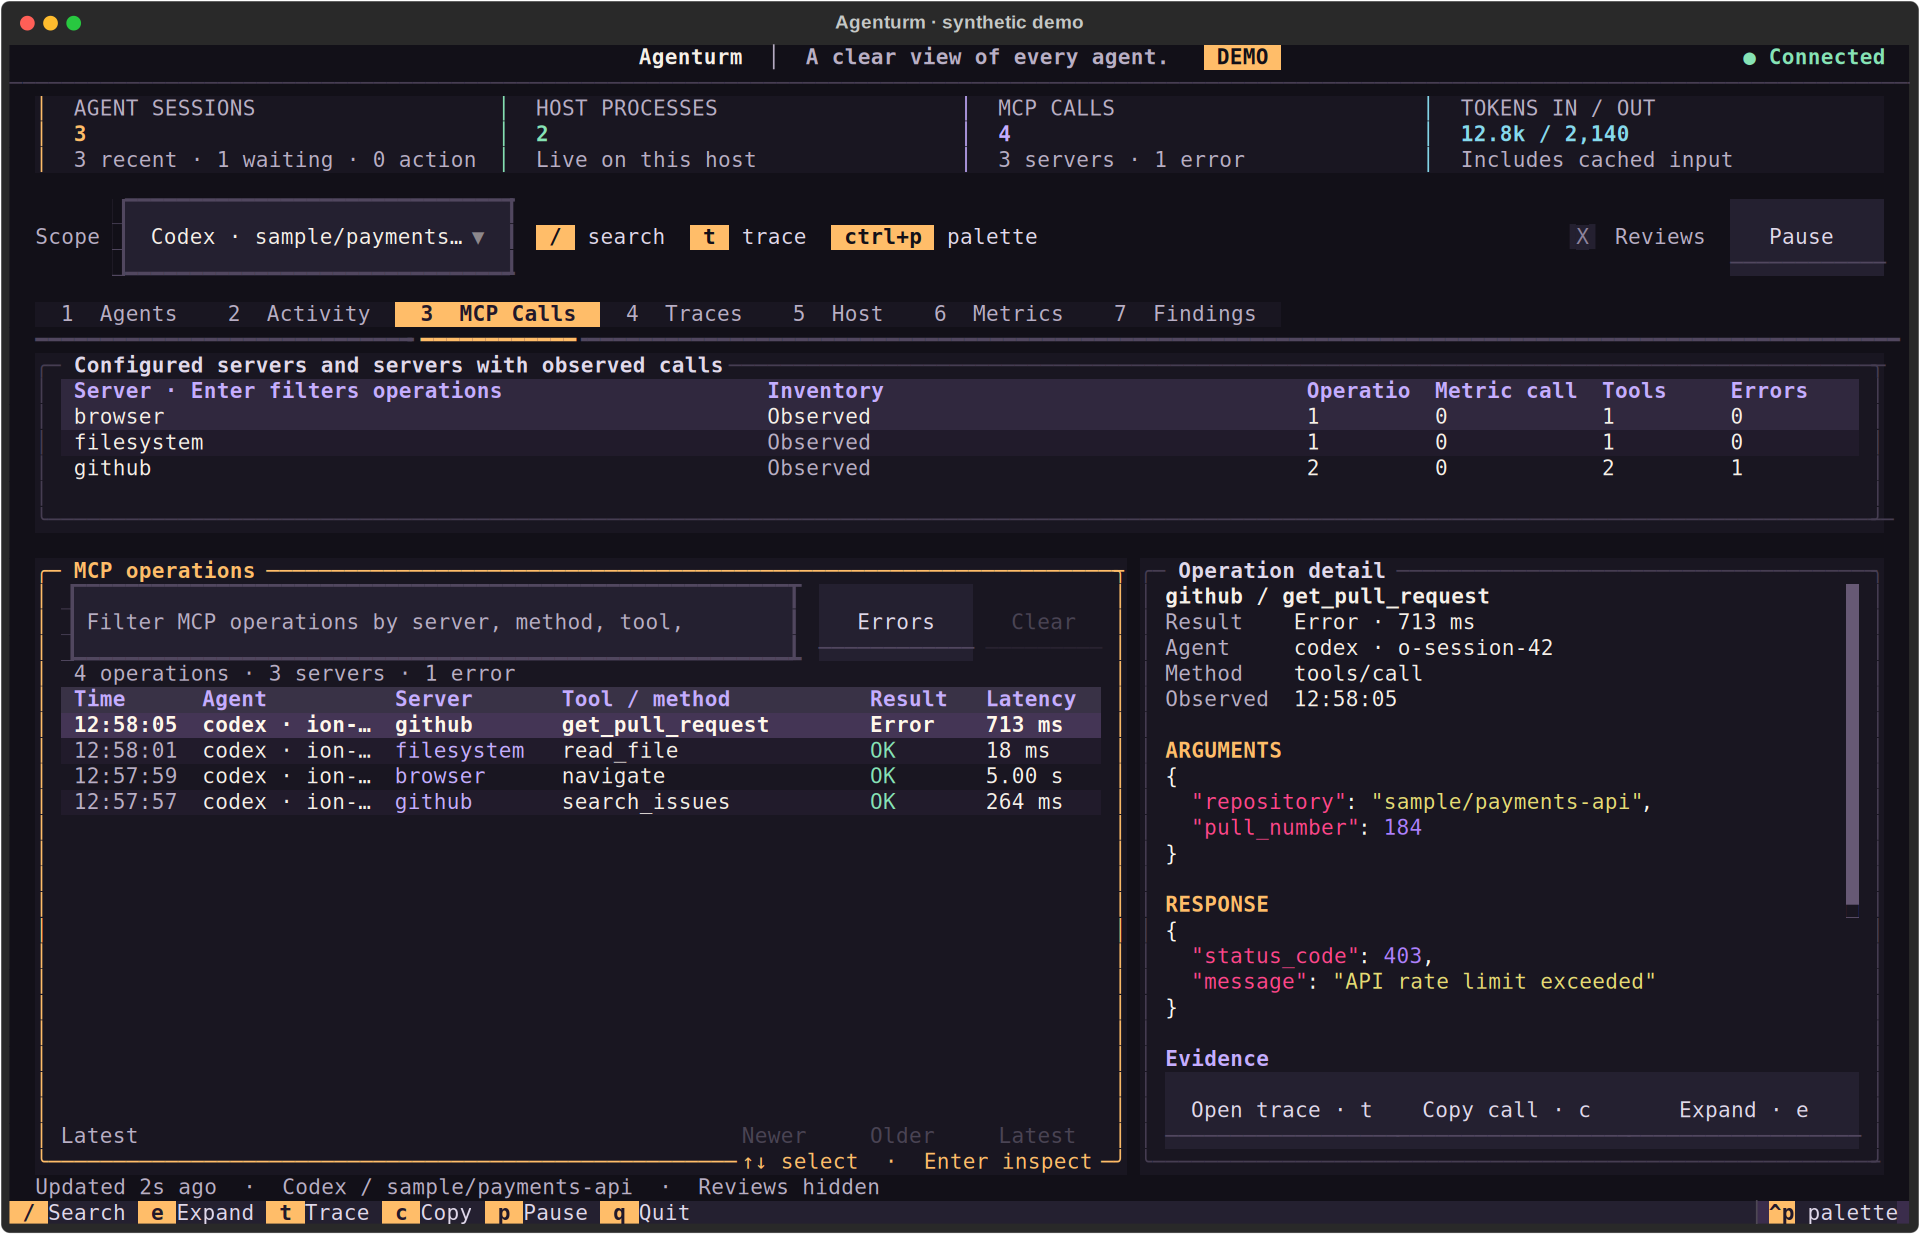
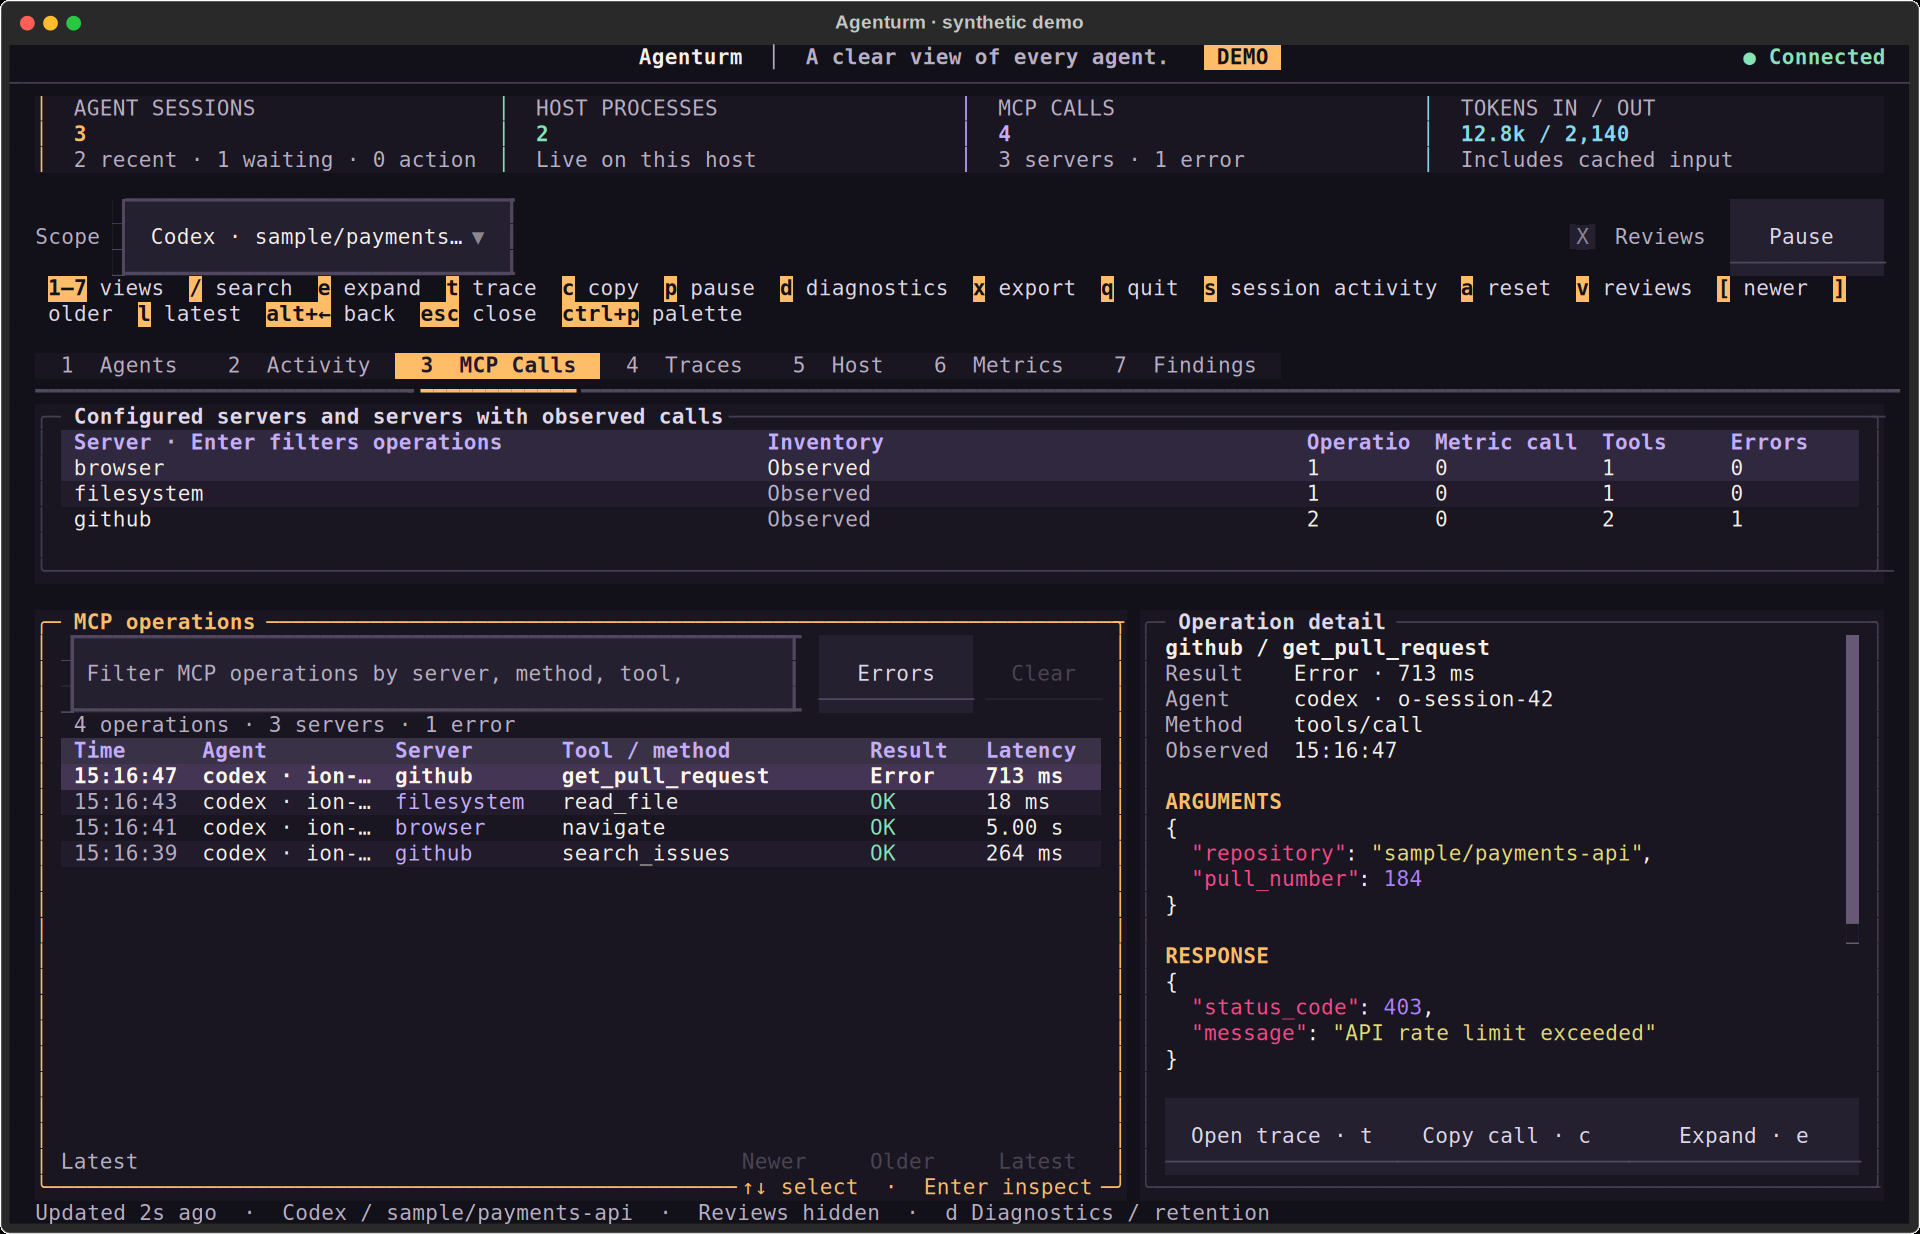
Move all keyboard shortcuts to the top bar
Show the complete shortcut map below the scope controls, wrapping on narrow terminals. Remove Textual's bottom footer and regenerate the synthetic screenshots and README GIF.

diff --git a/observatory/terminal_ui.py b/observatory/terminal_ui.py
@@ -23,7 +23,7 @@ from textual.binding import Binding
 from textual.containers import Grid, Horizontal, Vertical
 from textual.screen import Screen
 from textual.strip import Strip
-from textual.widgets import Button, Checkbox, DataTable, Footer, Input, RichLog, Select, Static, TabbedContent, TabPane, Tree
+from textual.widgets import Button, Checkbox, DataTable, Input, RichLog, Select, Static, TabbedContent, TabPane, Tree
 
 from .terminal import clean, number, trace_name
 from .branding import NAME, AMBER, LAVENDER, MINT, ICE, masthead, shortcut_hints, SCOPE_HINTS
@@ -673,8 +673,7 @@ class ObservatoryApp(App):
     #controls { height: 3; margin: 0 2; align-vertical: middle; }
     #scope-label { width: 6; height: 1; margin-top: 1; color: $agent-muted; }
     #scope { width: 32; margin-right: 1; }
-    #shortcuts { display: none; height: 1; margin-top: 1; margin-right: 2; color: $agent-muted; text-wrap: nowrap; }
-    .with-hints #shortcuts { display: block; }
+    #shortcuts { height: 2; max-height: 2; margin: 0 2; padding: 0 1; color: $agent-muted; text-wrap: wrap; overflow: hidden; }
     SelectCurrent { background: $agent-panel; border: tall $agent-border; }
     SelectCurrent #label { height: 1; text-wrap: nowrap; text-overflow: ellipsis; }
     Select:focus > SelectCurrent { border: tall $agent-primary; background-tint: transparent; }
@@ -749,16 +748,12 @@ class ObservatoryApp(App):
     #span-tree { height: 1fr; min-height: 4; background: $agent-surface; scrollbar-size: 1 1; }
     #span-info { height: 10; border-top: solid $agent-border-subtle; }
     #health { height: 1; padding: 0 2; color: $agent-muted; }
-    Footer { background: $agent-panel; color: $agent-muted; }
-    FooterKey { background: $agent-footer-key; color: $agent-primary; }
-    FooterKey > .footer-key--key { background: $agent-primary; color: $agent-on-primary; text-style: bold; }
-    FooterKey > .footer-key--description { background: $agent-panel; color: $agent-label; }
-    FooterLabel { background: $agent-panel; color: $agent-label; }
     .narrow #masthead { padding: 0 1; }
     .narrow #summary { margin: 0 1 1 1; }
     .narrow .stat { padding: 0 1; }
     .narrow #controls { margin: 0 1; }
     .narrow #scope { width: 32; }
+    .narrow #shortcuts { height: 3; max-height: 3; margin: 0 1; padding: 0; }
     .narrow #pages { margin: 0 1; }
     .narrow Tab { padding: 0 1; }
     .narrow #agent-bottom { height: 12; }
@@ -766,6 +761,7 @@ class ObservatoryApp(App):
     .narrow .list { width: 100%; height: 1fr; margin-right: 0; margin-bottom: 1; }
     .narrow .detail, .narrow #trace-detail { width: 100%; height: 1fr; }
     .small #summary { height: 6; grid-size: 2; }
+    .small #shortcuts { height: 4; max-height: 4; }
     .small #agent-bottom { height: 9; }
     .small #pause { width: 9; }
     .compact #masthead { height: 1; border-bottom: none; }
@@ -875,10 +871,10 @@ class ObservatoryApp(App):
             yield Button('← Back',id='history-back',disabled=True,tooltip='Return to the event you opened · Alt+Left')
             yield Static('Scope',id='scope-label')
             yield Select([('All agent sessions','all')],value='all',allow_blank=False,id='scope')
-            yield Static(shortcut_hints(SCOPE_HINTS),id='shortcuts')
             yield Static('',id='controls-spacer')
             yield Checkbox('Reviews',id='reviews')
             yield Button('Pause',id='pause')
+        yield Static(shortcut_hints(SCOPE_HINTS),id='shortcuts',markup=False)
         with TabbedContent(initial='agents',id='pages'):
             with TabPane('1  Agents',id='agents'):
                 yield self.results('agents','agent-table','Filter agents by task, project, model, or session…')
@@ -937,7 +933,6 @@ class ObservatoryApp(App):
                             yield Button(Text('Copy finding · c'),id='finding-copy')
                             yield Button(Text('Expand · e'),id='expand-findings',classes='expand-button')
         yield Static('Connecting to receiver…',id='health',markup=False)
-        yield Footer()
 
     def get_default_screen(self):
         return ObservatoryScreen()
@@ -981,8 +976,6 @@ class ObservatoryApp(App):
             self.query_one('#search-'+page).tooltip='Search this view · / to focus · Esc to return'
         self.query_one('#reviews').tooltip='Include internal approval review sessions'
         self.query_one('#pause').tooltip='Pause display updates · collection continues'
-        # The hints keep their own width so the scope and controls keep theirs.
-        self.query_one('#shortcuts').styles.width=cell_len(shortcut_hints(SCOPE_HINTS).plain)
         for log in self.query(SelectableRichLog):
             log.tooltip='Drag to select text · Ctrl+C copies selection · c copies details'
         self.query_one('#host-detail').styles.height=8
@@ -1028,7 +1021,6 @@ class ObservatoryApp(App):
         size=size or self.size
         self.screen.set_class(size.width<140,'narrow')
         self.screen.set_class(size.width<100,'small')
-        self.screen.set_class(size.width>=120,'with-hints')
         self.screen.set_class(size.height<36,'compact')
         for brand in self.query('#brand'):
             brand.update(themed_text(brand,masthead(demo=getattr(self,'demo_mode',False),compact=size.height<36 or size.width<100)))

diff --git a/tests/test_terminal_branding.py b/tests/test_terminal_branding.py
@@ -37,30 +37,26 @@ class BrandingTest(unittest.IsolatedAsyncioTestCase):
                 self.assertLessEqual(masthead.size.height, 2 if size[1] >= 36 else 1)
                 self.assertEqual(app.query_one('#brand').size.height, 1)
 
-    async def test_shortcut_hints_sit_next_to_the_scope(self):
+    async def test_complete_shortcut_legend_stays_at_the_top(self):
         app = ObservatoryApp(ManualFeed())
         async with app.run_test(size=(160, 48)) as pilot:
             for size in ((160, 48), (120, 40), (100, 40), (80, 24)):
                 await pilot.resize_terminal(*size)
                 await pilot.pause()
                 hints = app.query_one('#shortcuts')
-                scope = app.query_one('#scope')
-                if size[0] >= 120:
-                    self.assertTrue(hints.display, f'{size}: hints should be visible')
-                    self.assertLessEqual(scope.region.right, hints.region.x)
-                    rendered = hints.render_line(0).text
-                    for label in ('search', 'trace', 'palette'):
-                        self.assertIn(label, rendered)
-                else:
-                    self.assertFalse(hints.display, f'{size}: hints should be hidden')
+                self.assertTrue(hints.display, f'{size}: hints should be visible')
+                self.assertLess(hints.region.y, app.query_one('#pages').region.y)
+                rendered = '\n'.join(hints.render_line(row).text for row in range(hints.size.height))
+                for label in ('views', 'search', 'expand', 'trace', 'copy', 'pause',
+                              'diagnostics', 'export', 'quit', 'session activity',
+                              'reset', 'reviews', 'newer', 'older', 'latest', 'back', 'palette'):
+                    self.assertIn(label, rendered, f'{size}: missing {label}')
 
-    async def test_footer_keeps_the_full_key_map(self):
+    async def test_bottom_footer_is_removed(self):
         app = ObservatoryApp(ManualFeed())
         async with app.run_test(size=(160, 48)) as pilot:
             await pilot.pause()
-            labels = {str(key.description) for key in app.query('FooterKey')}
-            for label in ('Search', 'Expand', 'Trace', 'Copy', 'Pause', 'Quit', 'palette'):
-                self.assertIn(label, labels)
+            self.assertEqual(len(app.query('Footer')), 0)
 
     async def test_masthead_lockup_is_centered(self):
         app = ObservatoryApp(ManualFeed())

diff --git a/observatory/branding.py b/observatory/branding.py
@@ -15,8 +15,14 @@ LABEL = "#e1d9eb"
 CYAN, GOLD = ICE, AMBER
 
 SHORTCUTS = (('/', 'search'), ('e', 'expand'), ('t', 'trace'), ('c', 'copy'), ('q', 'quit'))
-# The few keys worth repeating beside the scope; the footer keeps the full map.
-SCOPE_HINTS = (('/', 'search'), ('t', 'trace'), ('ctrl+p', 'palette'))
+# Keep the complete keyboard map in the persistent top-of-screen legend.
+SCOPE_HINTS = (
+    ('1–7', 'views'), ('/', 'search'), ('e', 'expand'), ('t', 'trace'),
+    ('c', 'copy'), ('p', 'pause'), ('d', 'diagnostics'), ('x', 'export'),
+    ('q', 'quit'), ('s', 'session activity'), ('a', 'reset'), ('v', 'reviews'),
+    ('[', 'newer'), (']', 'older'), ('l', 'latest'), ('alt+←', 'back'),
+    ('esc', 'close'), ('ctrl+p', 'palette'),
+)
 
 
 def shortcut_hints(keys=SHORTCUTS):
@@ -25,7 +31,7 @@ def shortcut_hints(keys=SHORTCUTS):
     for index, (key, label) in enumerate(keys):
         if index:
             text.append('  ')
-        text.append(f' {key} ', style=f'bold #121018 on {AMBER}')
+        text.append(key, style=f'bold #121018 on {AMBER}')
         text.append(f' {label}', style=LABEL)
     return text
 
